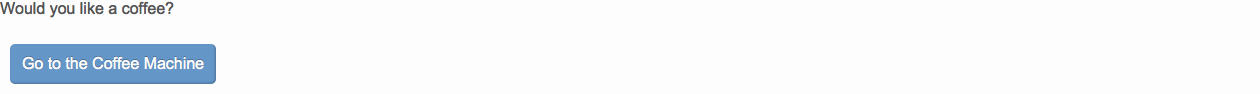
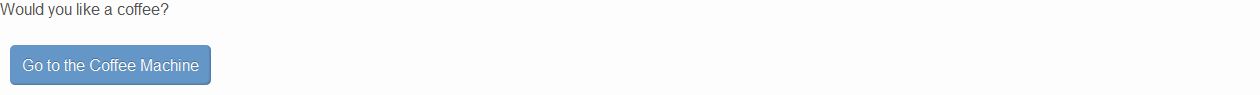
Updated baselines for PhantomJS 2.0, bumped version to 1.0 to avoid compat issues

Changed region(s): [[0.0, 0.4681, 0.1857, 0.8936], [0.0, 0.0213, 0.1548, 0.1915]]

diff --git a/Gruntfile.js b/Gruntfile.js
@@ -4,7 +4,7 @@
 *
 * Copyright (c) 2013 Chris Gladd
 * Copyright (c) since 2014 Anselm Hannemann
-* Copyright (c) since 2015 Micah Godbolt
+* Copyright (c) since 2017 Micah Godbolt
 *
 * Licensed under the MIT license.
 */
